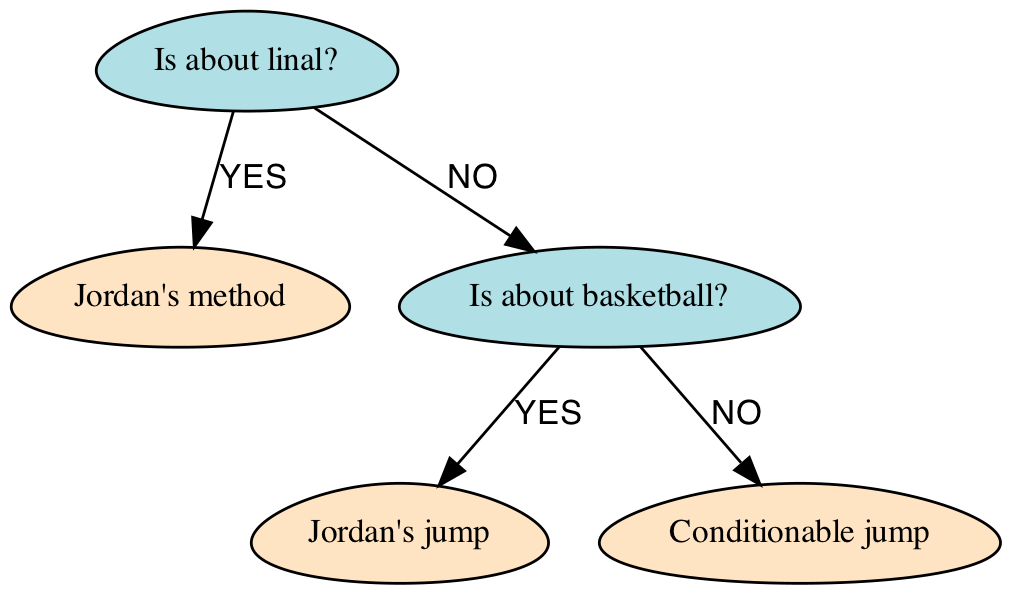
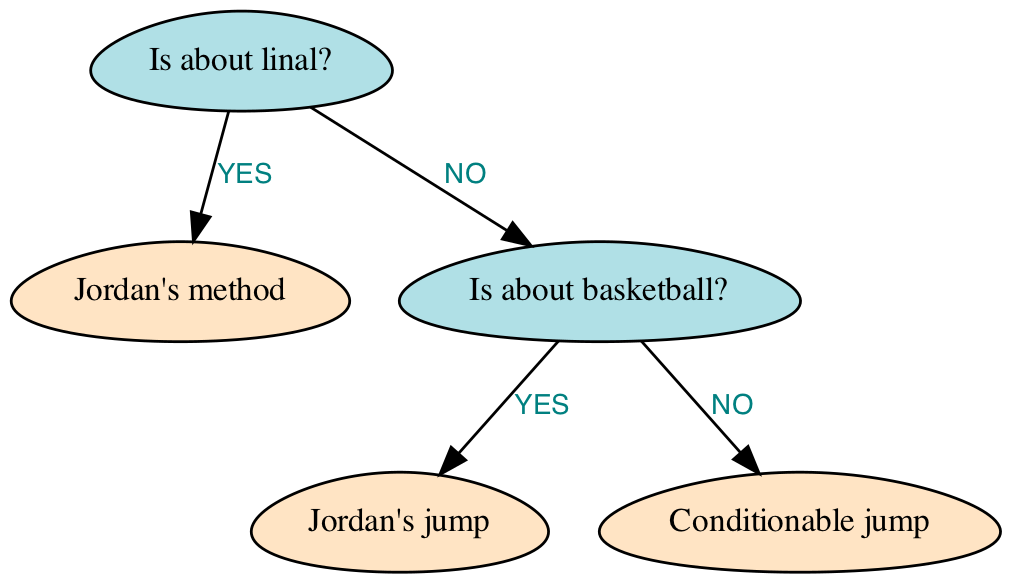
add some new modes for dumping

diff --git a/sources/dump/dump.c b/sources/dump/dump.c
@@ -40,7 +40,7 @@ int NodeGraphLink (node_t *tree, FILE * file)
     return NO_ERROR;
 }
 
-int GraphDump (node_t *tree)
+int GraphDump (node_t *tree, dump_modes mode)
 {
     assert (tree);
     FILE * file = fopen ("sources/dump/dump_tree.dot", "w");
@@ -58,7 +58,6 @@ int GraphDump (node_t *tree)
             "\t\tedge [color = \"black\", fontcolor = \"teal\", fontsize = 10, fontname = \"Impact\"];\n"
             "\n");
 
-
     NodeGraphInit (tree, file);
     fprintf (file, "\n");
     NodeGraphLink (tree, file);
@@ -70,6 +69,11 @@ int GraphDump (node_t *tree)
     fclose (file);
 
     system ("dot sources/dump/dump_tree.dot -T png -o sources/dump/dump_tree.png");
+
+    if (mode == OPEN)
+    {
+        system ("open sources/dump/dump_tree.png");
+    }
 
     return NO_ERROR;
 }

diff --git a/sources/dump/dump.h b/sources/dump/dump.h
@@ -1,10 +1,13 @@
 #include "../includes/standarts.h"
 #include "../lexer/lexer.h"
 #include "../parcer/parcer.h"
+
+typedef enum {OPEN = 15, JUST} dump_modes;
+
 //===*===*===*===*===*===*===*===*===*===*===*===*===*===*===*===*===*===*===*//
 //===*===*===*===*===*===*===*===*===*===*===*===*===*===*===*===*===*===*===*//
 int NodeGraphInit (node_t *tree, FILE * file);
 int NodeGraphLink (node_t *tree, FILE * file);
-int GraphDump (node_t *tree);
+int GraphDump (node_t *tree, dump_modes mode);
 //===*===*===*===*===*===*===*===*===*===*===*===*===*===*===*===*===*===*===*//
 //===*===*===*===*===*===*===*===*===*===*===*===*===*===*===*===*===*===*===*//
